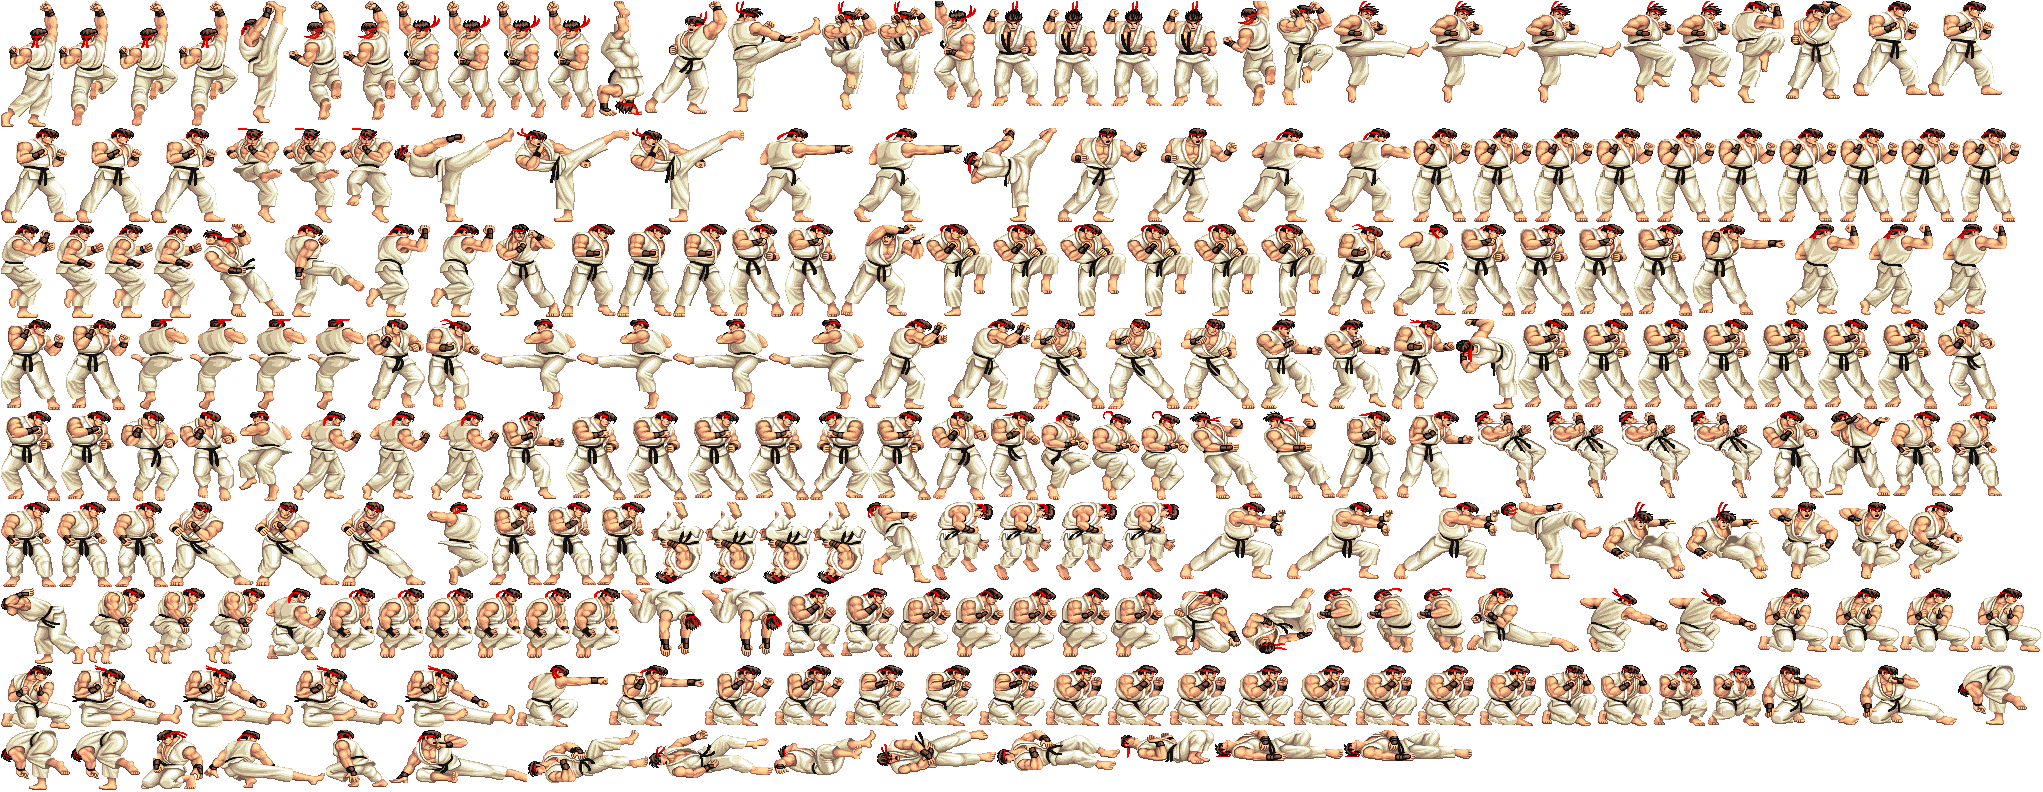
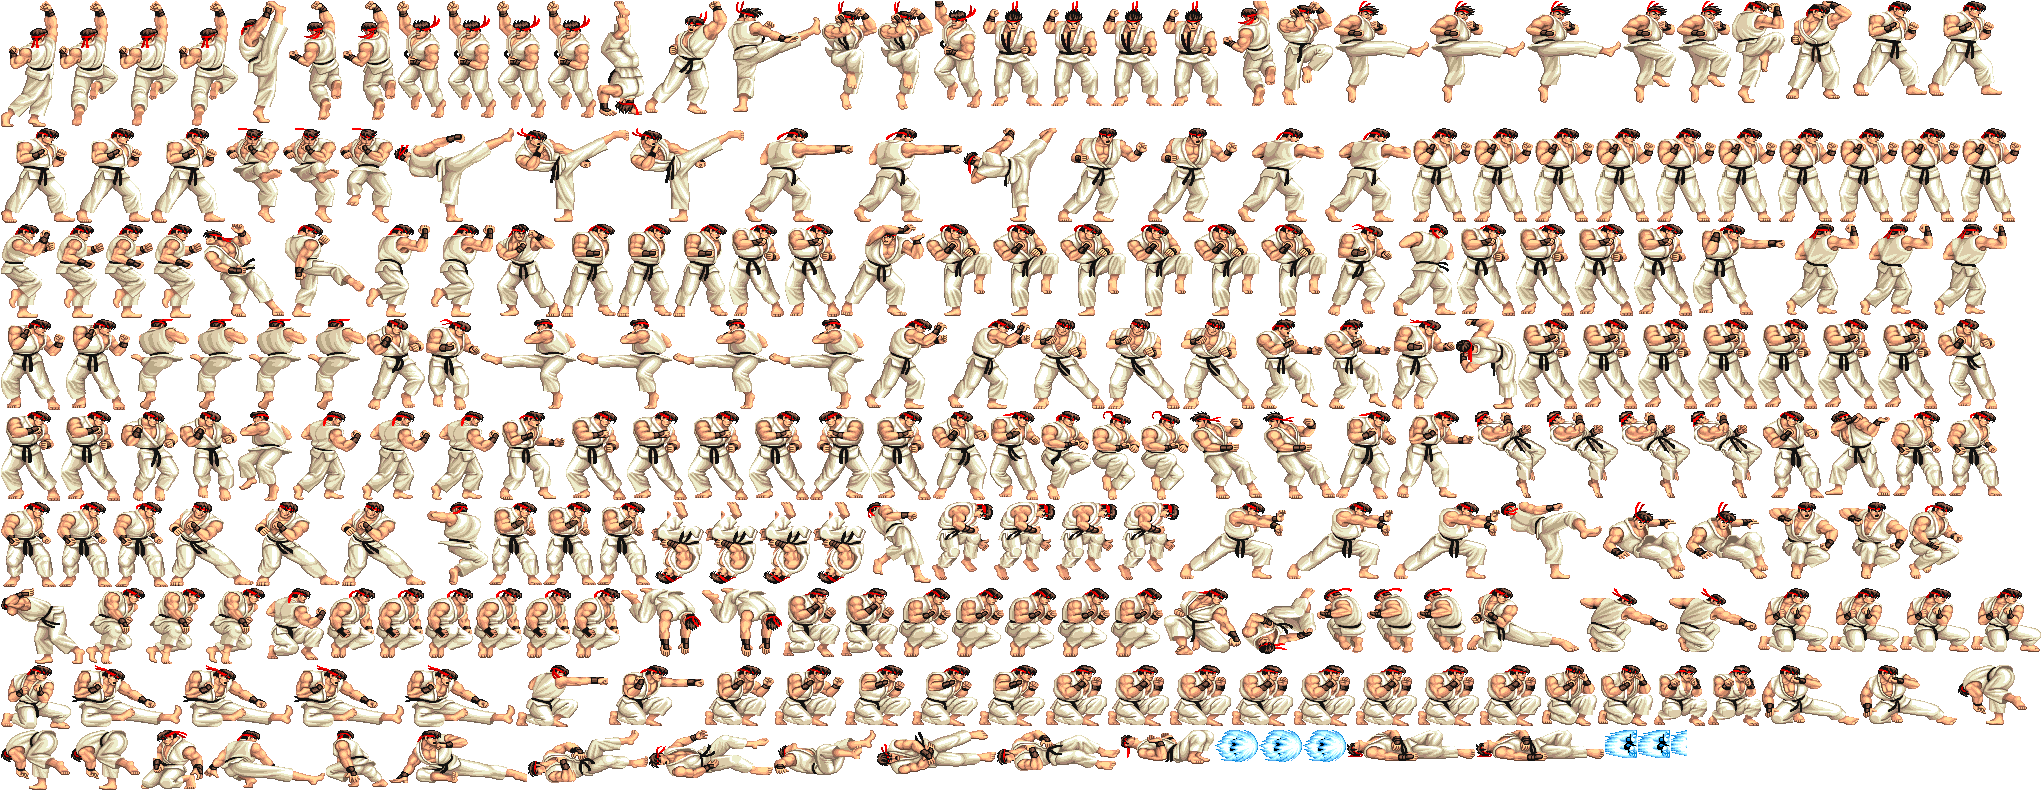
Fighter: the fireball out of the ROM too, and a look at three other boards
- rom-sprites.mjs picks up projectiles: a fireball is an object of its own, drawn by the same
  sprite list in a palette that is not the fighter's, so the objects near it in that palette are
  the hadouken. Fifteen records, anchored at the projectile's own position.
- tools/sf2-probe/lua/recon.lua prints a board's regions, shares, screens and palette, feeds it a
  coin and a start and takes a picture — the first thing to run on a game that is not this one.
  dumpvideo.lua is dumpgfx.lua for a region with another name.
- rebuild-romsets.sh takes a PATTERN for the family and a BLANK_MAX for how large a missing file
  may be stood in for with zeros.

What the recon found, written up in tools/sf2-probe/README.md: CPS2 would work unchanged and is
blocked only by a twenty-byte decryption key the MAME 2003 set predates; Neo Geo wants real BIOS
dumps where that set ships MAME-generated stand-ins; and Mortal Kombat boots and plays but keeps
its graphics in an encoded stream rather than a tile bank, so sprites there would have to be
captured from the screen rather than decoded from the ROM.

Changed region(s): [[0.5859, 0.9091, 0.8326, 0.9697]]

diff --git a/tools/sf2-probe/README.md b/tools/sf2-probe/README.md
@@ -41,6 +41,11 @@ Raw logs stay under `ext/reference-artwork/rom-dumps/` (gitignored). Only the di
 | file | role |
 |---|---|
 | `lua/common.lua` | address map per romset, input field names, character ids, select-screen grid, helpers (`hold`, `snapshot`) |
+| `lua/dumpgfx.lua` | the board's whole graphics region (6 MB) to `gfx.bin`, the live palette, and the CPS-A/B registers. MAME has already stitched the twelve mask ROMs together, so this is the bytes the hardware reads |
+| `lua/pose.lua` | one frame from every side at once — the hardware sprite list, the palette, both fighters' positions, and MAME's own screenshot. The decoder in `scripts/rom-sprites.mjs` was checked by drawing this list and diffing it against that screenshot |
+| `lua/plans/react.lua` | a short plan for the *other* side of a fight: the flinches, the guards, the sweep knockdown, the throw and the stars, recorded while the character of interest is player two |
+| `lua/recon.lua` | what a board looks like from the outside: its regions, shares, screens and palette, a coin, a start, and a picture. The first thing to run on a game that is not Street Fighter II |
+| `lua/dumpvideo.lua` | `dumpgfx.lua` for a board whose graphics region has another name (`PROBE_REGION=:video`) |
 | `lua/boot.lua` | power-on → coin ×2 → 1P start → 2P start → cursor routes → picks → waits for `FF8008 & 0x0A == 0x0A` (controls live) → `machine:save(match_<p1>_<p2>)`. Deterministic frame counts; a whole boot is ≈2100 frames. |
 | `lua/record.lua` | the move recorder. Loads a state, runs a plan of tests. Every test: wait until both fighters are neutral and still, teleport them (`+0x06`, `+0x1CC`), zero velocities, refill health, settle 14 frames, then feed P1 a per-frame input script while P2 plays the dummy. Writes one JSON line per frame. The round timer is frozen by rewriting the 40-frame sub counter every frame. |
 | `lua/plans/gen.lua` | builds the standard plan for a character: calibration (idle, walks, crouch, three jumps, landing), every standing/crouching/jumping normal as whiff / close-whiff / hit / far hit / block / vs crouch / crouch block (3 hit repetitions for the damage spread), 8 throws ×3, throw range probe, close/far range probe every 2 px, specials × strength × {whiff, hit, block, crouch hit, crouch block}, two dizzy accumulation runs, dizzy-threshold pokes, and an unfrozen timer run |
@@ -163,6 +168,37 @@ position `(x-64, y-16)`. Ryu idle = one block sprite, code `0x0060`, pal 1, 4×6
 * `damage`, `dizzy` carry `{min,max,mean,samples}` — both are randomised per hit
 * boxes `[x0,y0,x1,y1]` in fighter space, +x forward, +y up, origin at the feet
 
+## The sprites
+
+`scripts/rom-sprites.mjs` draws the fighters out of `gfx.bin`. Read its header for the tile format
+and how it was established; the short version is that a tile is 16x16 in 128 bytes, four bitplanes
+per eight pixels, colour 15 transparent, and that the sprite list gives the block size, the flips and
+the palette. The recorder already logged the sprite list around each fighter every frame, so no new
+run is needed for a character's own moves — the poses come out of the same logs the frame data did,
+and are named after the moves that play them.
+
+Two things do need their own runs. A character never flinches in its own recording, because it is the
+one attacking, so `plans/react.lua` records it as the dummy; and a character's colours have to come
+from a match where it was player one, because player two wears the alternate palette
+(`PROBE_TAG=<char> pose.lua`, one per character).
+
+## Other boards
+
+The same two questions decide how far this travels: is there a graphics region that decodes, and is
+there a list in RAM saying what is drawn where. `lua/recon.lua` answers the first half in one run.
+
+| board | game | how it went |
+|---|---|---|
+| CPS1 | Street Fighter II (all editions) | **done.** `:gfx` decodes, the sprite list is in gfxram at the page CPS-A register 0 points to, and the palette device holds finished RGB |
+| CPS2 | Super Street Fighter II Turbo | **would work unchanged**: same `:gfx`, same `cps_a_regs`, and the sprite list moves to the `objram1`/`objram2` shares. Blocked here only by `ssf2t.key`, the twenty-byte decryption key — MAME 0.276 loads it from the romset and the MAME 2003 set predates it |
+| Neo Geo | Samurai Shodown | **blocked on the BIOS.** The 2003 set ships MAME-generated stand-ins (`mame.sm1`, `mamelo.lo`, `sfix.sfx`) where 0.276 wants the real dumps |
+| Midway T-unit | Mortal Kombat | **boots and plays**, and can be driven and screenshotted like anything else — but its 12 MB `:video` region is not a tile bank. About a third of it is zero, so the pixels are in there, but neither a linear read nor Midway's usual bank interleave produces a picture: the blitter reads an encoded stream, and decoding it is its own project. Sprites from this board would come from driving the game and capturing frames, not from decoding the ROM |
+
+`tools/sf2-probe/rebuild-romsets.sh` takes a `PATTERN` for the family to rebuild, and a `BLANK_MAX`
+for how large a missing file may be before it is stood in for with zeros — 300 bytes by default,
+which covers PLD equations; `BLANK_MAX=100000` also covers a sound DSP, at the cost of audio we do
+not record. Never blank a program ROM or a decryption key: the game will boot to a black screen.
+
 ## Known gaps
 
 * The 68000 code that maps attack-table bytes to damage / dizzy points was not disassembled; the
@@ -171,6 +207,9 @@ position `(x-64, y-16)`. Ryu idle = one block sprite, code `0x0060`, pal 1, 4×6
 * Special-cancel (2-in-1) windows were not measured.
 * Landing after an empty jump reads as 1 frame; a normal pressed on the frame after touchdown comes
   out.
+* The fireball's sprite is captured by taking the objects near the projectile in a palette that is
+  not the fighter's. It comes out looking right but has not been diffed against a MAME frame the way
+  the fighters were.
 * World Warrior's select-screen variables were not found; `boot.lua` still lands in Ryu vs Zangief on
   `sf2` because the cursor starts on those characters. Hyper Fighting's turbo skips display frames, so
   its frame counts are display frames, ≈0.7 of CE's.
